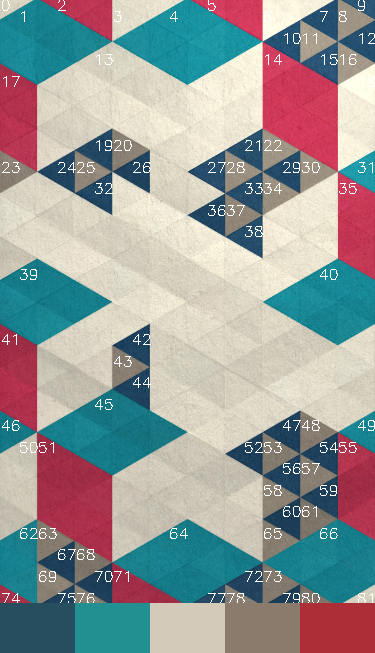
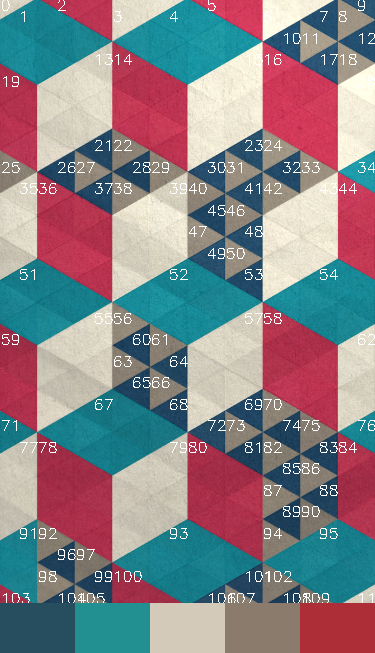
added a few hueristics, works better

diff --git a/source/solver.py b/source/solver.py
@@ -69,8 +69,16 @@ class PuzzleSolver:
         self.patch_size = None
         self.patch_color = None
 
+        # shortest path between all patches
+        self.patch_shortest = None
+        self.patch_longest_shortest = None
+        self.reorder_patch = None
+
         # number of patches in certain color
         self.num_patches_color = None
+
+        # parameters for the solver
+        self.solver_params = {}
 
     def load_puzzle(self, puzzle_id, puzzle_suf="", search_dir=None, down_sample=True, show=False):
         self.puzzle_id = puzzle_id
@@ -253,6 +261,32 @@ class PuzzleSolver:
         # plt.imshow(self.patch_connect)
         # plt.show()
 
+    def find_patch_shortest_paths(self):
+        self.patch_shortest = self.num_patches * np.ones((self.num_patches, self.num_patches), dtype=int)
+        self.patch_longest_shortest = np.zeros((self.num_patches, ), dtype=int)
+
+        # use floyd algorithm to calculate shorted path between patches
+        for i in range(self.num_patches):
+            for j in range(self.num_patches):
+                if self.patch_connect[i, j]:
+                    self.patch_shortest[i, j] = 1
+                    self.patch_shortest[j, i] = 1
+
+        for i in range(self.num_patches):
+            self.patch_shortest[i, i] = 0
+
+        for k in range(self.num_patches):
+            for i in range(self.num_patches):
+                for j in range(self.num_patches):
+                    if self.patch_shortest[i, j] > self.patch_shortest[i, k] + self.patch_shortest[k, j]:
+                        self.patch_shortest[i, j] = self.patch_shortest[i, k] + self.patch_shortest[k, j]
+
+        # find the longest of the shortest path of each patch
+        self.patch_longest_shortest = np.max(self.patch_shortest, axis=0)
+
+        # sort the patch id based on longest shortest path
+        self.reorder_patch = np.argsort(self.patch_longest_shortest)
+
     def construct_puzzle_graph(self, show=False):
         # decompose the image into triangle cells
         for xh in range(self.n_cells_h):
@@ -277,6 +311,9 @@ class PuzzleSolver:
 
         # count patch size and find connectivity
         self.count_and_connect_patches()
+
+        # find the shortest path between patches
+        self.find_patch_shortest_paths()
 
     def pre_process_colors(self, show=False):
         gray = cv2.cvtColor(self.puzzle_img, cv2.COLOR_RGB2GRAY)
@@ -365,7 +402,7 @@ class PuzzleSolver:
             # record the means
             self.colors.append(hsv_mean[:3])
 
-    def simple_solver(self, steps_left, connect, adj, sol, valid_patch, num_patches_color):
+    def simple_solver(self, steps_left, connect, adj, sol, valid_patch, num_patches_color, last_patch=None):
         # simple prunes
         num_colors_unconnected = 0
         num_colors_left = 0
@@ -383,18 +420,25 @@ class PuzzleSolver:
         if num_colors_left == 1:
             return True
 
-        # current step for labeling connectivity, starting from 2
-        step_curr = self.num_steps - steps_left
+        # current step for labeling connectivity, starting from 1
+        step_curr = self.num_steps - steps_left + 1
+
+        # set patches for iteration
+        if self.solver_params["stick_to_one_patch"] and step_curr >= self.solver_params["STOP_start_step"]:
+            patches_iter = [last_patch]
+        else:
+            patches_iter = self.reorder_patch.tolist()
 
         # try all patches and all colors
-        for patch_id in range(self.num_patches):
+        for patch_id in patches_iter:
+            # patch_id = self.reorder_patch[patch_id_]
             if not valid_patch[patch_id]:
                 continue
             for color_id in range(self.num_colors):
                 if num_patches_color[color_id] == 0 or color_id == self.patch_color[patch_id]:
                     continue
-                # if step_curr < 4:
-                #     print step_curr, patch_id, color_id
+                if step_curr < 2:
+                    print step_curr, patch_id, color_id
                 # make current patch current color
                 color_old = self.patch_color[patch_id]
                 self.patch_color[patch_id] = color_id
@@ -430,8 +474,8 @@ class PuzzleSolver:
 
                 # only recurse down if adjacent patches have the same color
                 if num_patches_color_new[color_id] <= num_patches_color[color_id]:
-                    have_sol = self.simple_solver(steps_left - 1, connect, adj_new,
-                                                  sol, valid_patch_new, num_patches_color_new)
+                    have_sol = self.simple_solver(steps_left - 1, connect, adj_new, sol,
+                                                  valid_patch_new, num_patches_color_new, patch_id)
                     if have_sol:
                         return True
 
@@ -452,6 +496,14 @@ class PuzzleSolver:
                 raise Exception("Couldn't find solution!")
 
         print self.sol
+
+    def set_solver_param(self, param_name, param_value):
+        """
+        Set parameters for the solver
+        :param param_name: list of parameter names in string
+        :param param_value: list of parameter values
+        """
+        self.solver_params[param_name] = param_value
 
     def visualize_solution(self):
         pass

diff --git a/source/solve_puzzle.py b/source/solve_puzzle.py
@@ -4,4 +4,9 @@ from solver import PuzzleSolver
 if __name__ == "__main__":
     solver = PuzzleSolver(13)
     solver.load_puzzle(106, puzzle_suf="", show=True)
+
+    # set parameters
+    solver.set_solver_param("stick_to_one_patch", True)
+    solver.set_solver_param("STOP_start_step", 2)
+
     solver.solve_puzzle()
